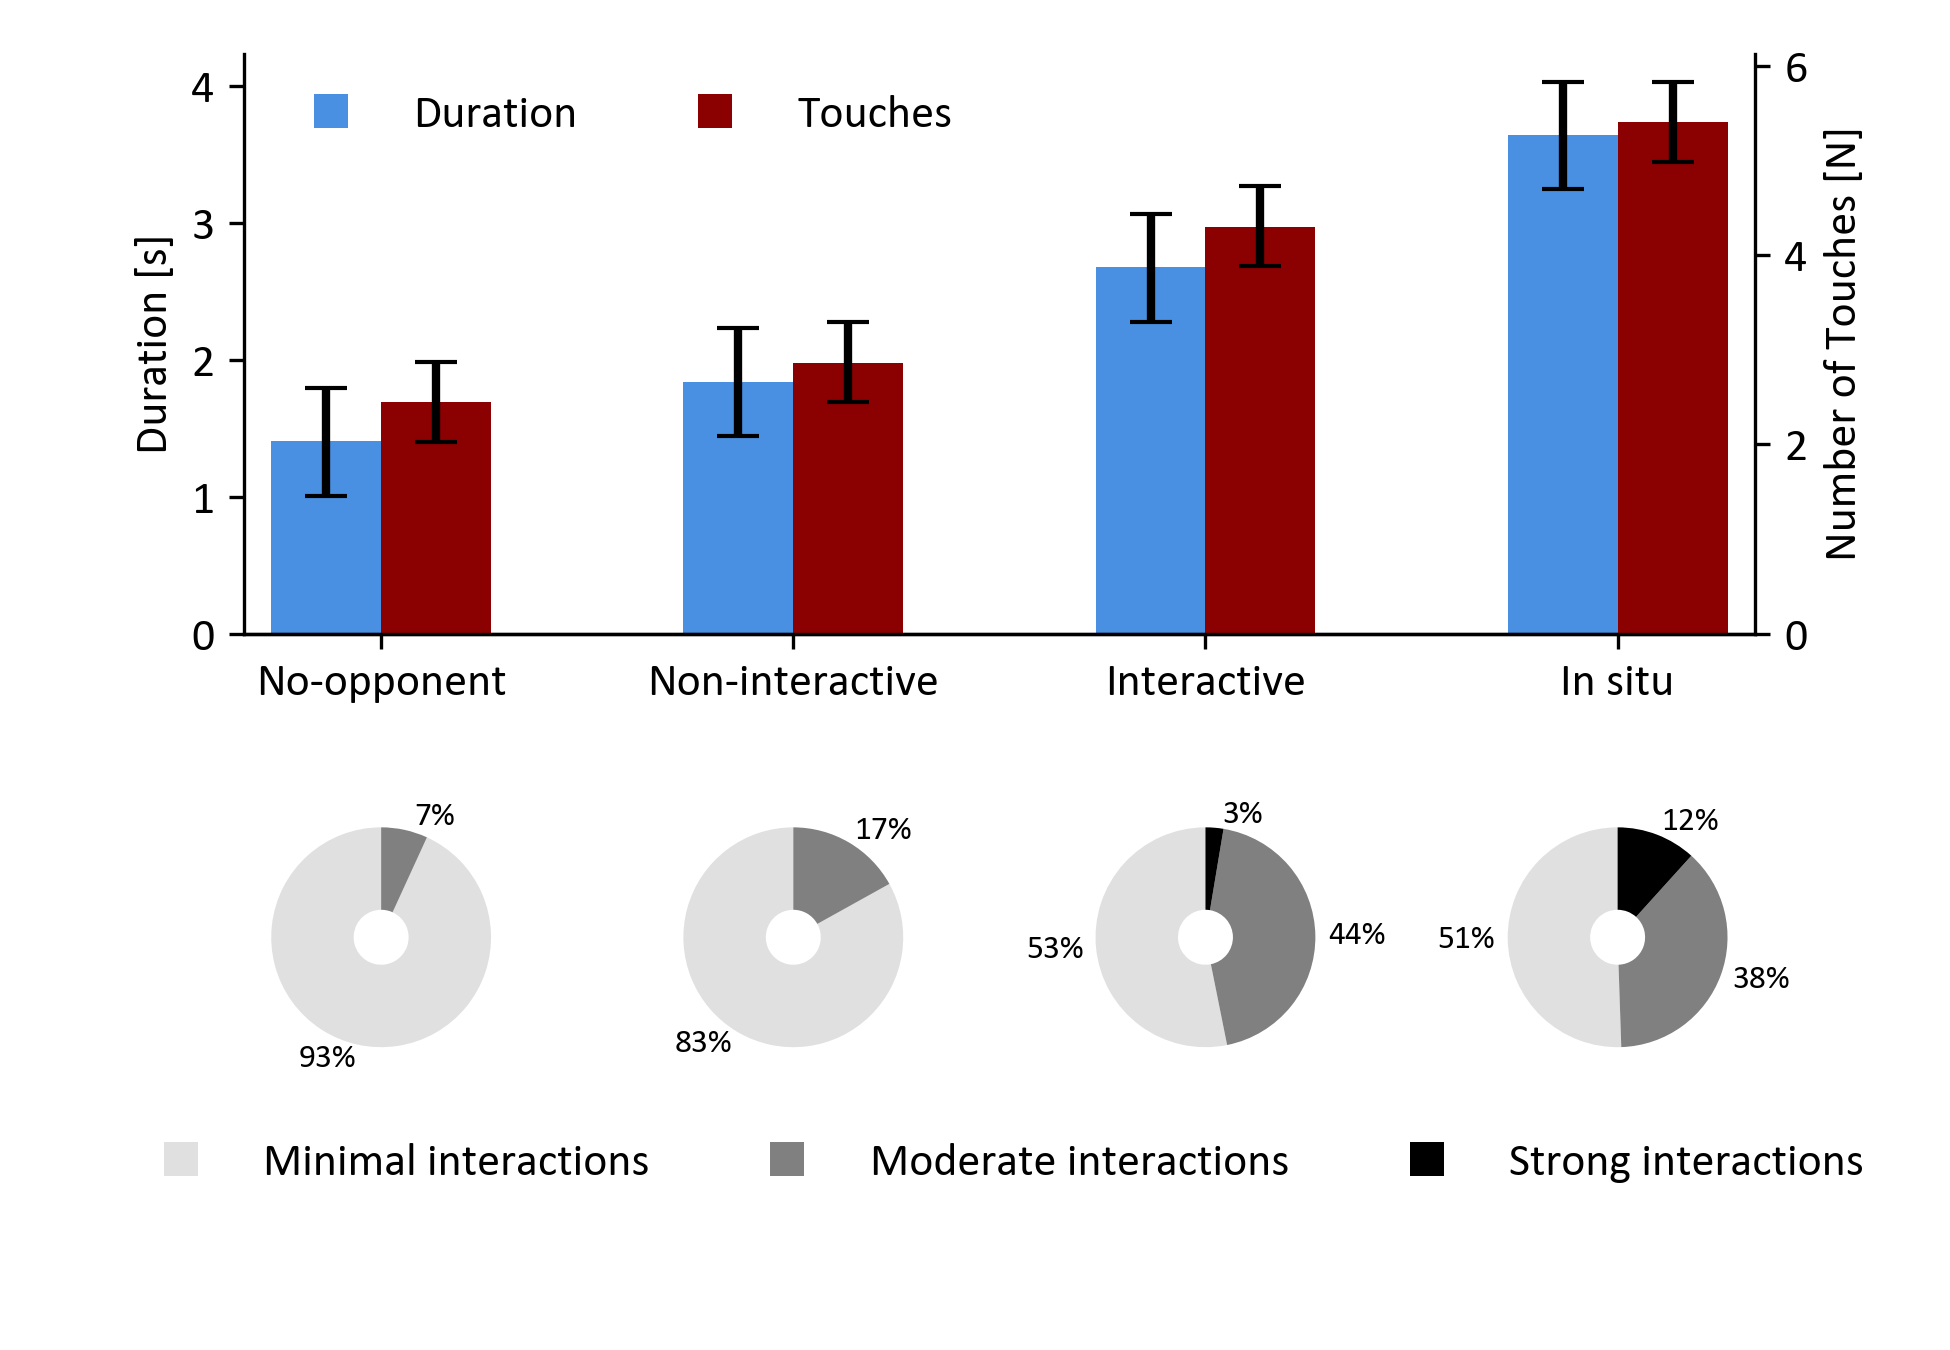
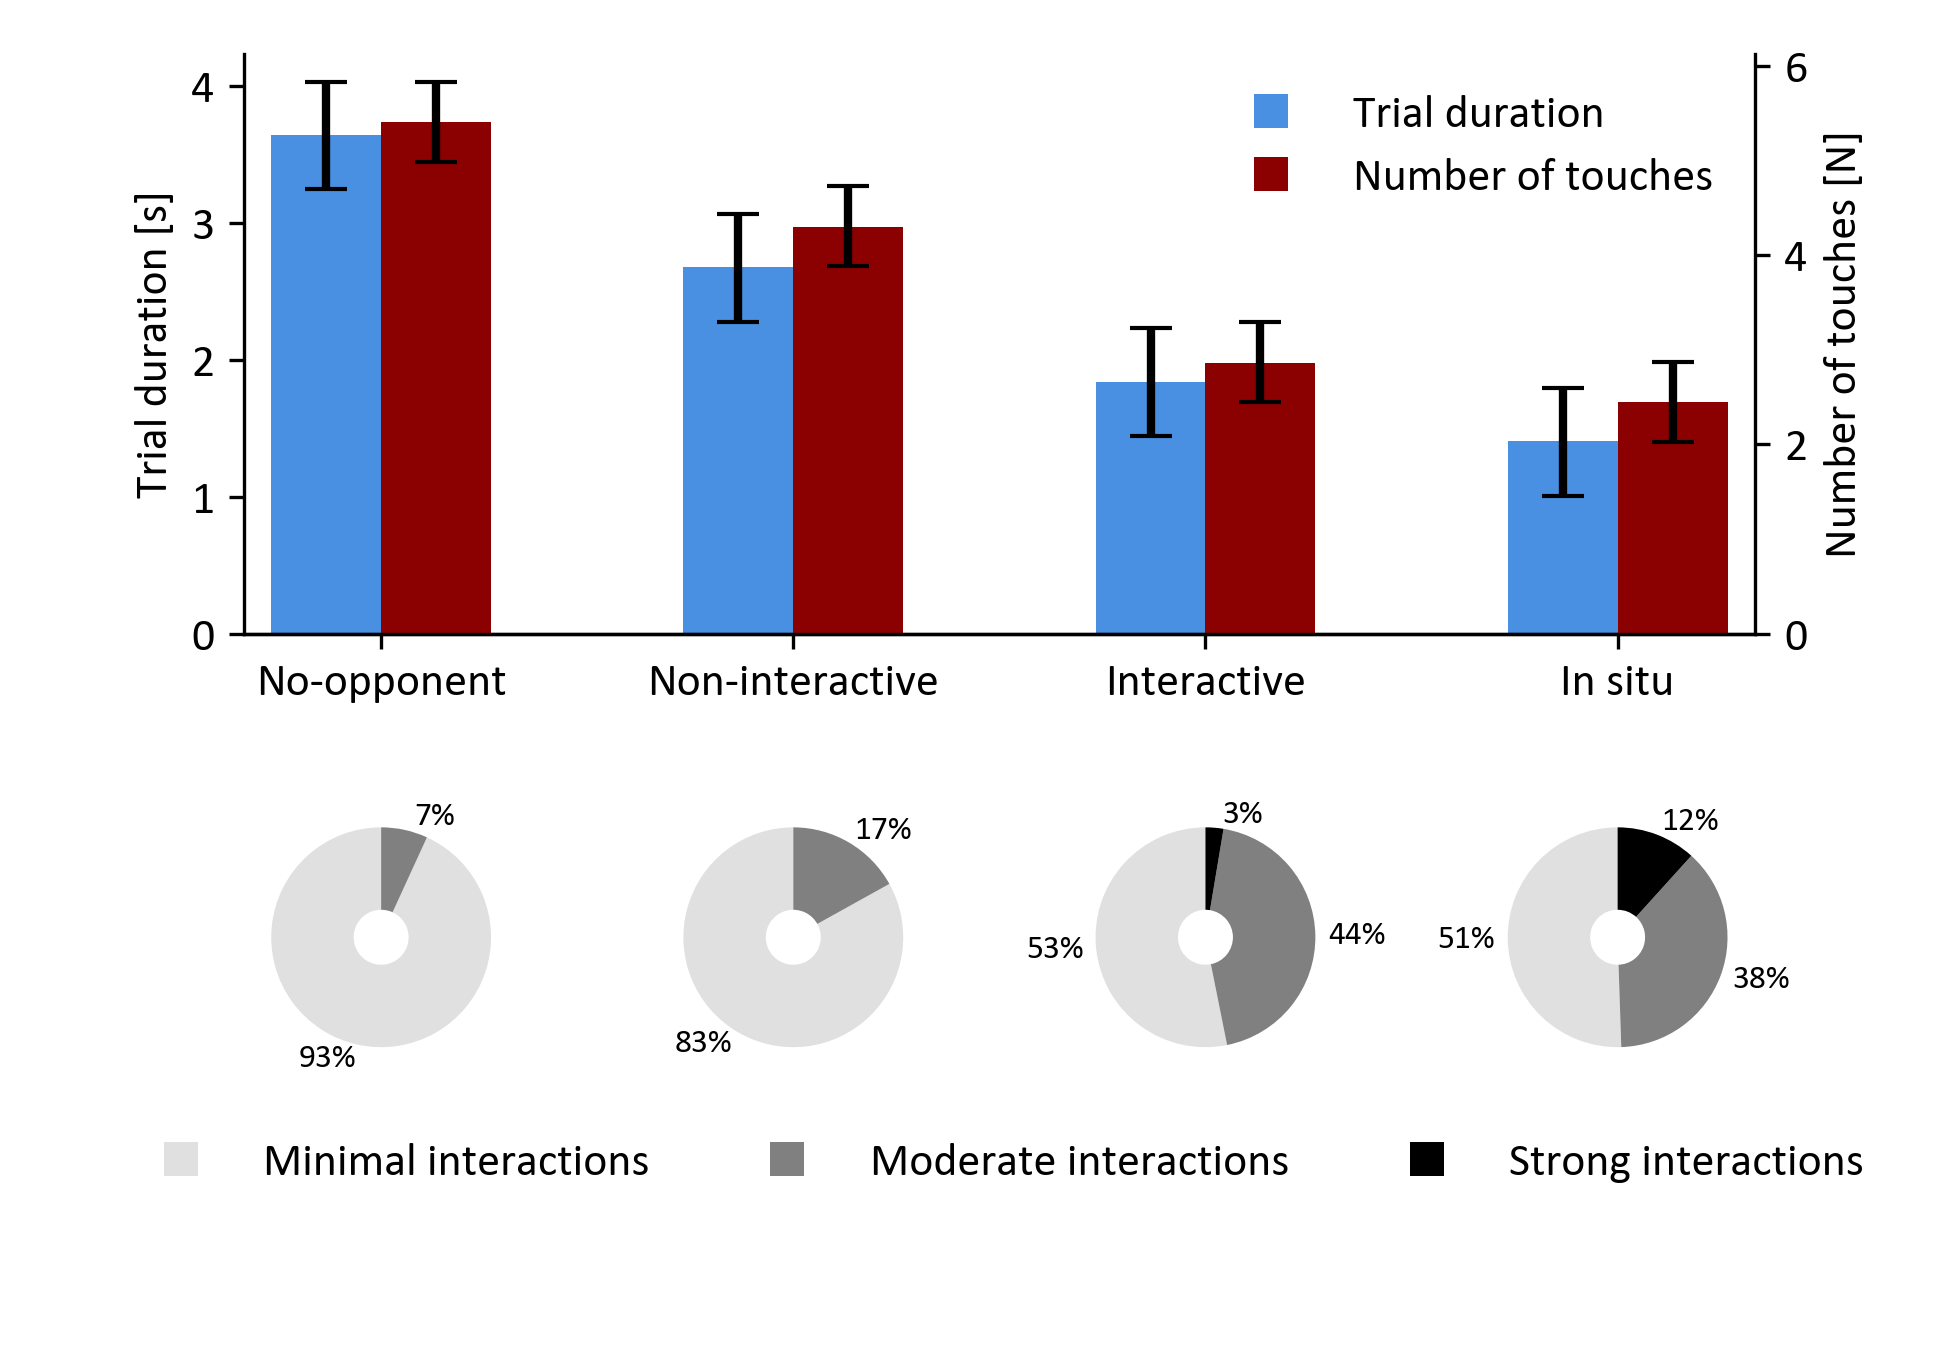
update table, naming conventions

diff --git a/Python.Analysis/src/regressions/table_duration_and_touches.py b/Python.Analysis/src/regressions/table_duration_and_touches.py
@@ -19,7 +19,7 @@ def duration_and_touches_table(duration_model_path: Path, touches_model_path: Pa
     duration_summary = az.summary(
         duration_results,
         hdi_prob=0.95,
-        stat_funcs={"Zero effect probability": probability_effect_is_zero},
+        stat_funcs={"Null effect probability": probability_effect_is_zero},
         var_names=["~^mu"],
         filter_vars="regex"
     )
@@ -27,7 +27,7 @@ def duration_and_touches_table(duration_model_path: Path, touches_model_path: Pa
     touches_summary = az.summary(
         touches_results,
         hdi_prob=0.95,
-        stat_funcs={"Zero effect probability": probability_effect_is_zero},
+        stat_funcs={"Null effect probability": probability_effect_is_zero},
         var_names=["~^mu"],
         filter_vars="regex"
     )
@@ -61,6 +61,8 @@ def duration_and_touches_table(duration_model_path: Path, touches_model_path: Pa
         summary["CI"] = summary.apply(
             lambda row: f"{row['hdi_2.5%']:.2f} – {row['hdi_97.5%']:.2f}", axis=1
         )
+        summary["Estimates"] = summary["mean"].apply(lambda x: f"{x:.2f}")
+
     
     duration_summary.insert(0, 'Metric', 'Duration')
     touches_summary.insert(0, 'Metric', 'Touches')
@@ -68,9 +70,9 @@ def duration_and_touches_table(duration_model_path: Path, touches_model_path: Pa
     combined_summary = pd.concat([duration_summary, touches_summary], axis=0)
     combined_summary.insert(0, 'Predictors', combined_summary.index)
     
-    rows = combined_summary[["Metric", "Predictors", "mean", "CI", "ess_bulk", "Zero effect probability"]].astype(str).values.tolist()
-    
-    header = ["Metric", "Predictors", "Estimates", "CI (2.5%, 97.5%)", "ESS", "Zero effect probability"]
+    rows = combined_summary[["Metric", "Predictors", "Estimates", "CI", "ess_bulk", "Null effect probability"]].astype(str).values.tolist()
+
+    header = ["Metric", "Predictors", "Estimates", "CI (2.5%, 97.5%)", "ESS", "Null effect probability"]
     
     table = Table(
         title="Combined hierarchical regression model predictions per condition",
@@ -88,4 +90,4 @@ def duration_and_touches_table(duration_model_path: Path, touches_model_path: Pa
         table.rename_element("1|participant_id_sigma", "σj Participant")
         table.rename_element("sigma", "σ")
     
-    persistence.save_table(table, file_name) 
+    persistence.save_table(table, file_name)

diff --git a/Python.Analysis/src/combined_figures.py b/Python.Analysis/src/combined_figures.py
@@ -32,8 +32,7 @@ def combined_predictive_and_cluster_figure(
     touches_lower = np.percentile(touches_samples, 2.5, axis=1)
     touches_upper = np.percentile(touches_samples, 97.5, axis=1)
 
-    # Get conditions in reversed order
-    conditions = list(reversed(Condition))
+    conditions = list(Condition)
     x_positions = {
         str(Condition.NoOpponent): 1.0,
         str(Condition.NoInteraction): 2.5, 
@@ -57,19 +56,19 @@ def combined_predictive_and_cluster_figure(
 
     ax1.bar(x_pos - 0.2, duration_means, 0.4,
             yerr=[duration_means - duration_lower, duration_upper - duration_means],
-            capsize=5, color='#4A90E2', label='Duration')
-    ax1.set_ylabel('Duration [s]')
+            capsize=5, color='#4A90E2', label='Trial duration')
+    ax1.set_ylabel('Trial duration [s]')
 
     ax2.bar(x_pos + 0.2, touches_means, 0.4,
             yerr=[touches_means - touches_lower, touches_upper - touches_means],
-            capsize=5, color='#8B0000', label='Touches')
-    ax2.set_ylabel('Number of Touches [N]')
+            capsize=5, color='#8B0000', label='Number of touches')
+    ax2.set_ylabel('Number of touches [N]')
 
     ax1.set_xticks(x_pos)
     formatted_labels = [str(cond) for cond in conditions]
     ax1.set_xticklabels(formatted_labels, rotation=0)
 
-    legend_labels_top = ['Duration', 'Touches']
+    legend_labels_top = ['Trial duration', 'Number of touches']
     legend_colors_top = ['#4A90E2', '#8B0000']
     legend_handles_top = [
         plt.Line2D([0], [0], marker='s', linestyle='None', color='none',
@@ -79,8 +78,8 @@ def combined_predictive_and_cluster_figure(
     ax1.legend(
         legend_handles_top,
         legend_labels_top,
-        loc='upper left',
-        ncol=2,
+        loc='upper right',
+        ncol=1,
         frameon=False
     )
 
@@ -92,7 +91,7 @@ def combined_predictive_and_cluster_figure(
 
     colors = ['#000000', '#E0E0E0', '#808080']
 
-    for condition in reversed(Condition):
+    for condition in conditions:
         labels = [trial.cluster_label for trial in trials if trial.condition == condition]
         label_set = sorted(set(labels))
         counts = [labels.count(label) for label in label_set]

diff --git a/Python.Analysis/src/regressions/post_hoc.py b/Python.Analysis/src/regressions/post_hoc.py
@@ -74,7 +74,7 @@ def duration_and_touches_post_hoc(duration_model_path: Path, touches_model_path:
         colors="#4A90E2"
     )
     ax1.set_title("")
-    ax1.set_xlabel("95% Difference interval in trial duration [s]")
+    ax1.set_xlabel("95% Difference of probability density interval in trial duration [s]")
     ax1.tick_params(axis='both', which='major', labelsize=plt.rcParams['font.size'])
     
     # Plot touches differences
@@ -90,7 +90,7 @@ def duration_and_touches_post_hoc(duration_model_path: Path, touches_model_path:
         colors="#8B0000",
     )
     ax2.set_title("")
-    ax2.set_xlabel("95% Difference Interval in number of touches [N]")
+    ax2.set_xlabel("95% Difference of probability density interval in number of touches [N]")
     ax2.tick_params(axis='both', which='major', labelsize=plt.rcParams['font.size'])
     
     # Update font for all text elements

diff --git a/Python.Analysis/main.py b/Python.Analysis/main.py
@@ -25,7 +25,6 @@ if __name__ == '__main__':
 
     trials = TrialReader.read_trials(data_path)
 
-
     table_descriptive_statistics(trials, Path("descriptive_statistics.docx"), persistence)
 
     regressions.regression_duration(trials, Path("model_1.nc"), Path("model_1.txt"), persistence, n_draws=5000, n_tune=1000)
